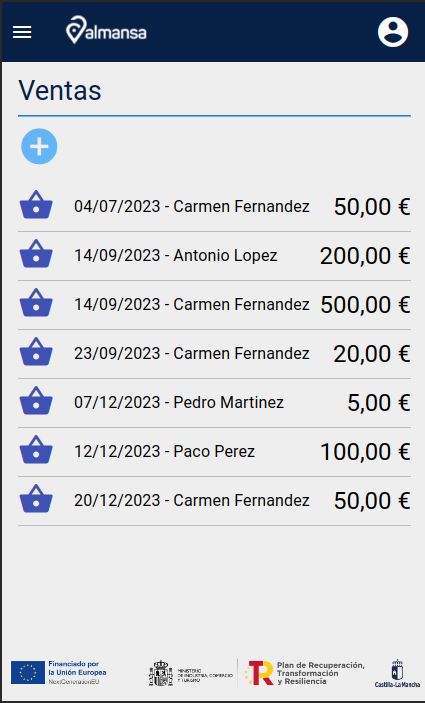
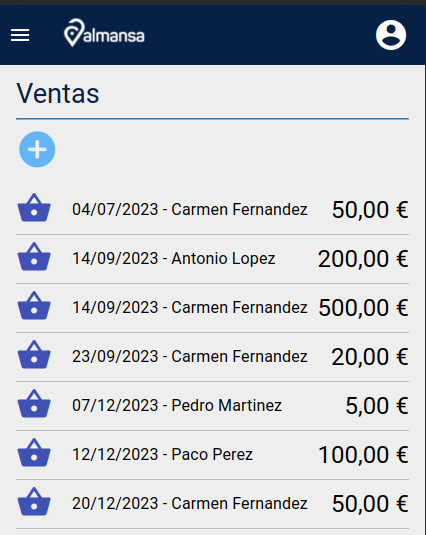
cambio imagenes comalma

Changed region(s): [[0.0, 0.0, 1.0, 1.0], [0.1529, 0.8374, 0.6118, 0.8673], [0.7341, 0.8374, 0.9482, 0.8673]]

diff --git a/comalma/index.md b/comalma/index.md
@@ -9,10 +9,15 @@
   - [Gestión de listas](./administracion/listas.md)
 
 ## App de Establecimientos
-  <!-- - [Crear una nueva venta](./comercios/nuevaventa.md) -->
-  - [Consultar mis ventas](./comercios/ventascomercio.md)
+
+![Alt text](./images/homecomercio.png)
+
+  - [Consultar ventas establecimiento](./comercios/ventascomercio.md)
   - [Consultar mis datos](./comercios/datoscomercio.md)
 
 ## App de usuarios
+
+![Alt text](./images/homeconsumidores.png)
+
   - [Consultar mis compras](./usuarios/comprasusuarios.md)
   - [Consultar mis datos](./usuarios/datosusuario.md)

diff --git a/vbarba/APPS/carros_aqnext/index.md b/vbarba/APPS/carros_aqnext/index.md
@@ -1,0 +1,13 @@
+# Carros de pedidos Vbarba
+
+## Master de carros
+
+![Alt text](./images/mastercarros.png)
+
+- Tabla: Pedidoscli
+- Filtro: servido in ('No', 'Parcial')
+- Orden: fecha Desc, codigo Desc
+
+## Pantalla de carros de pedido
+
+![Alt text](./images/carrospedido.png)
